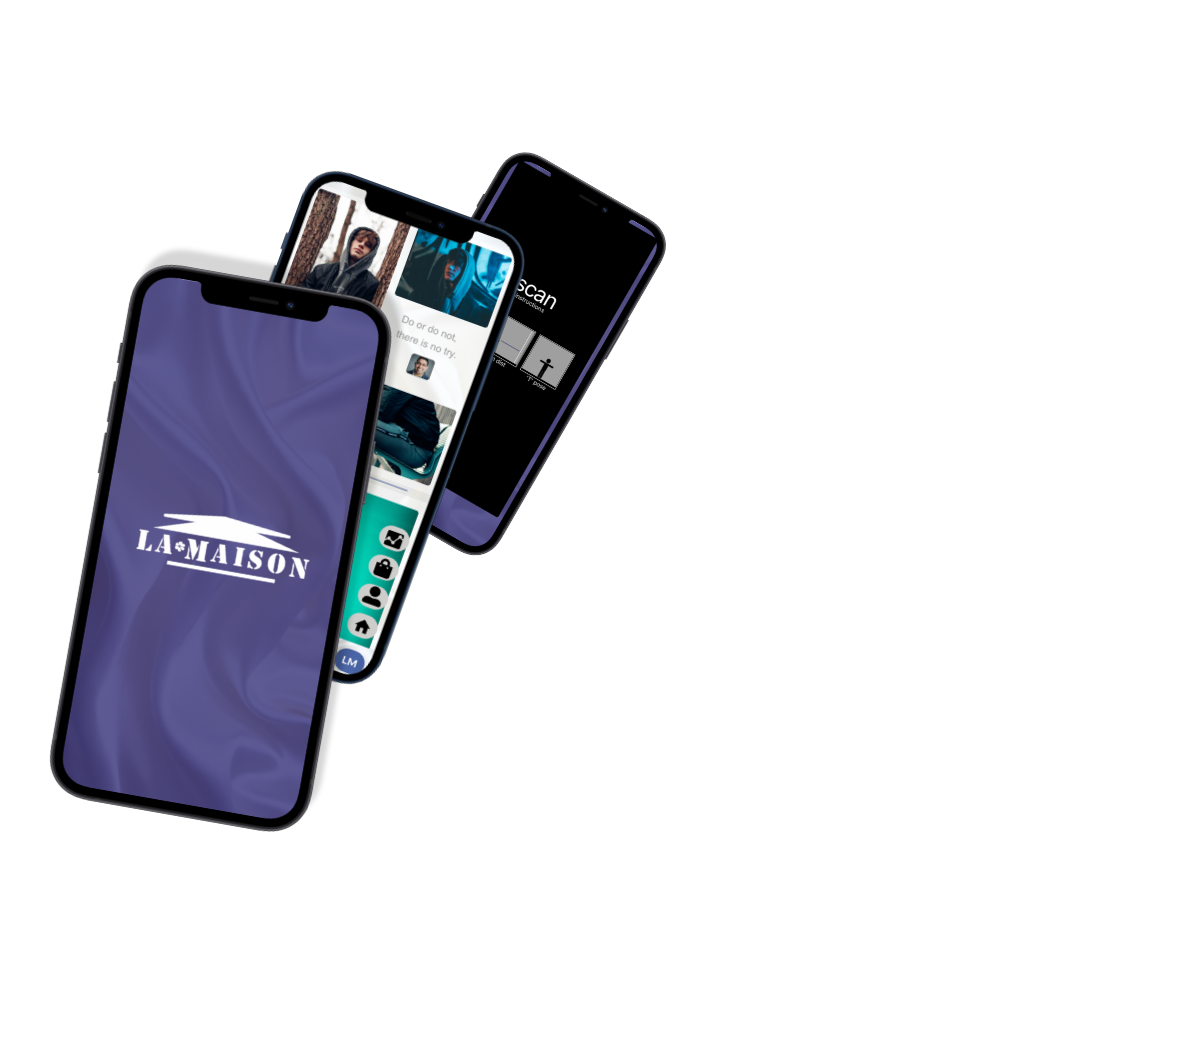
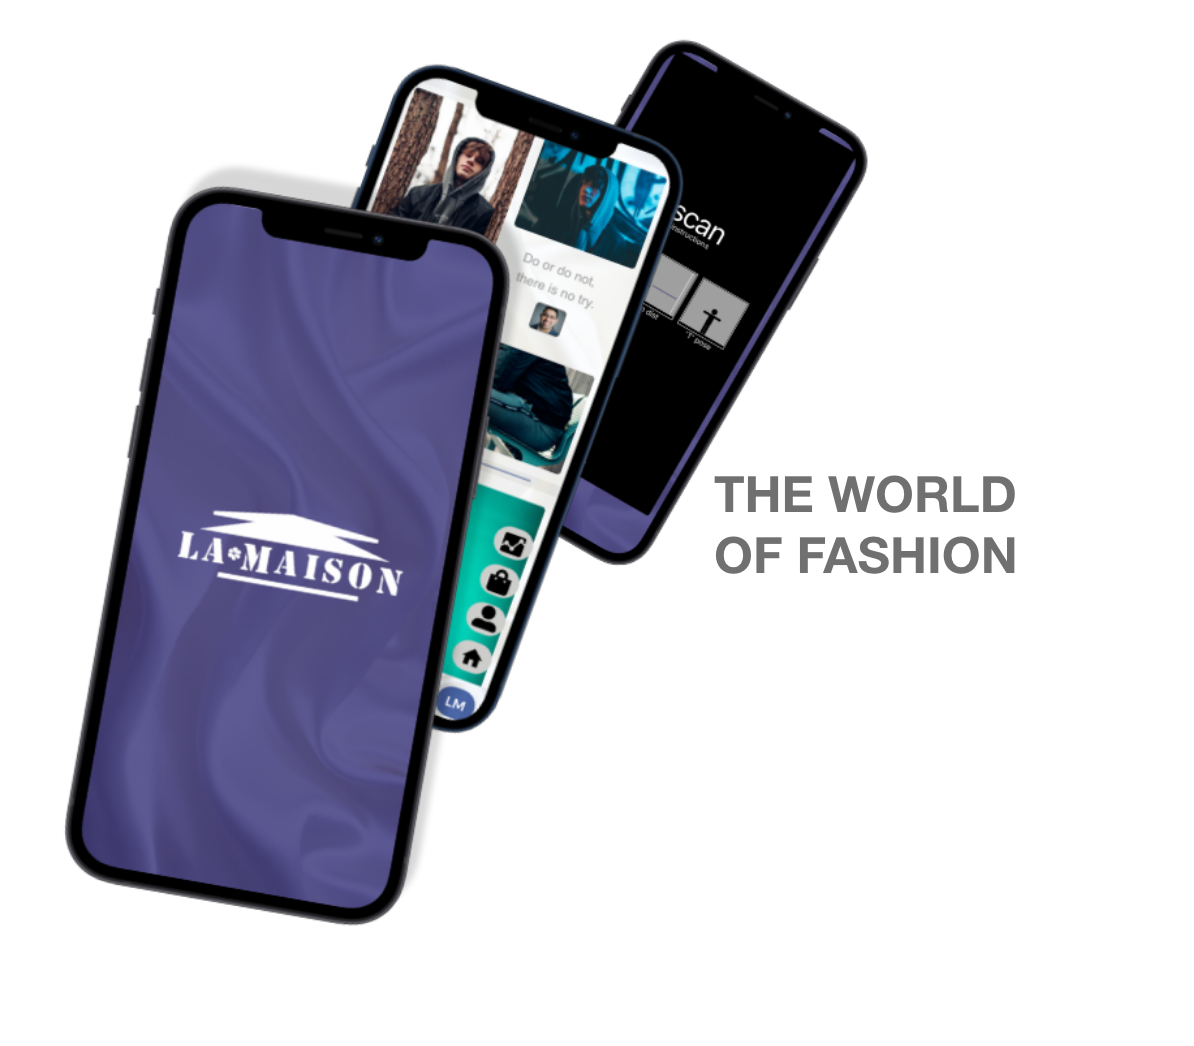
V2.3

Changed region(s): [[0.031, 0.0306, 0.8677, 0.8872]]

diff --git a/index.html b/index.html
@@ -81,16 +81,22 @@
           <div class="col-lg-6 col-md-6 col-sm-12">
             <div class="banner-text">
               <div class="banner-heading">
-                THE WORLD OF FASHION AT YOUR FINGERTIPS.
+                THE WORLD OF FASHION
               </div>
                 <div class="banner-heading">
-                Welcome to LA*MAISON 
-              </div>
-            
+                AT YOUR FINGERTIPS
+                </div>
             </div>
           </div>
           <div class="col-lg-6 col-md-6 col-sm-12">
-                <img src="images/i-1.png" >
+            <div class="row  banner-text2">
+              <div class="col-lg-6 col-md-6 col-sm-6 ">
+                <img src="images/MENU.png" >
+              </div>
+              <div class="col-lg-6 col-md-6 col-sm-6">
+                <img src="images/i-3.png" >
+              </div>
+            </div>
           </div>
         </div>
     </div>
@@ -106,12 +112,12 @@
       <h5 class="h1-responsive font-weight-bold wow fadeInLeft text-center" data-wow-delay="0.3s">The World of fashion at your Finger Tips</h5>
             <hr class="hr-light wow fadeInLeft" data-wow-delay="0.3s">
             <h1 class="h1-responsive font-weight-bold wow fadeInLeft text-center" data-wow-delay="0.3s">OUR WHY</h1>
-        <p class="pt-1">The street is the catwalk. The supermarket aisles. The shopping centre escalator. The club dancefloor, que, and exit. The carpark. The moment you wish to express your deepest truth is the catwalk. The life you truly live is the catwalk. The whole world is a stage. </p>
+        <p class="pt-1">The street is the catwalk. The supermarket isles. The shopping centre escalator. The club dancefloor, que, and exit. The carpark. The moment you wish to express your deepest truth is the catwalk. The life you truly live is the catwalk. The whole world is a stage. </p>
         <p class="pt-2 mb-0 pb-0">We've been to so many great countries, been shown diverse backgrounds, seen the breadth of the world and its culture... and that's impacted the way we dress.</p>
-        <p class="pt-0 mt-1 mb-0 pb-0">We thought that if people can't go and see it all for themselves, maybe we can bring it to them.</p>
+        <p class="pt-0 mt-1 mb-0 pb-0">We thought that if people can not go and see it all for themselves, maybe we can bring it to them.</p>
         <p class="pt-0 mt-1 mb-0 pb-0">
          We want to give everyone the ability to build their own style; something that fits their own personal values and ideals, a true reflection of themselves.</p>
-        <p class="pt-0 mt-1 mb-0 pb-0">Help them to build up a style they can call their own rather than squeezing themselves into the uniform of the time. Encourage people to have their own identity, think their own thoughts, have their own opinions, trust their own consciousness.</p>
+        <p class="pt-0 mt-1 mb-0 pb-0">Help them to build up a style they can call their own rather than squeezing themselves into the uniform of the time. Encourage people to have their own identity, think their own thoughts, have their own opinions,trust their own consciousness.</p>
       </div>
     </div>
   </section>
@@ -137,12 +143,12 @@
               <div class="white-text">
                 <h5 class="h1-responsive font-weight-bold wow fadeInLeft " >Learn All About the Advantages that Our App Has to Offer</h5>
                 <hr class="hr-light wow fadeInLeft" data-wow-delay="0.3s">
-                <p class="custom-para-1">We support young businesses, and connect them to communities.</p>
+                <p class="custom-para-1">We are the home to the newest brands in London for you to purchase straight out of the app.</p>
                 
-                <p class="custom-para-1">Offer users insight and analytics to enhance their fashion lifestyle.</p>
+                <p class="custom-para-1">Not only that, but a place to create a virtual wardrobe that gives you access to it anywhere on the planet.</p>
                 
-                <p class="custom-para-1">Reduce returns, stop waste and save the world with advanced measurement tools.</p>
-                <h5 class="h1-responsive font-weight-bold " ></h5>
+                <p class="custom-para-1">Finally, a online measuring tool so you can try on your next purchase before it even arrives.</p>
+                <h5 class="h1-responsive font-weight-bold " >Accessible from All Locations in the United Kingdom </h5>
                 <hr class="hr-light wow fadeInLeft" data-wow-delay="0.3s">
                 <p class="custom-para-1">We aim to supply you with the freshest independent brands we can find. </p>
               </div>
@@ -207,7 +213,7 @@
       <p class="">It began with an idea to improve the way independent brands do business and that sprouted into LA Maison. Just two guys and a couple computer screens brought this to you. Late nights & difficult choices all for you. I hope you enjoy our sacrifice. </p>
     <h5 class="font-weight-bold">Get In Touch</h5>
       <p class="py-2">We want to hear from you!</p>
-      <p class="">Tel: {07972303813} | Email : Leslie@conexion.ltd, Imran@conexion.ltd or Lamaison2113@gmail.com {London, UK}</p>
+      <p class="">Tel: { Insert Number } | Email : leslie@conexion.ltd, Imran@conexion.ltd or Lamaison2113@gmail.com { Insert Address }</p>
     </div>
   </div>
   </section>
@@ -226,15 +232,15 @@
                 <div class="col-xs-12 col-sm-4 col-md-4">
                     <h5>Contact us</h5>
                     <ul class="list-unstyled quick-links">
-                        <li><a href="javascript:void();"><i class="fa fa-angle-double-right"></i>Email: imran@conexion.ltd</a></li>
-                        <li><a href="javascript:void();"><i class="fa fa-angle-double-right"></i>Cell: 07972303813</a></li>
+                        <li><a href="javascript:void();"><i class="fa fa-angle-double-right"></i>Email: email@gmail.com</a></li>
+                        <li><a href="javascript:void();"><i class="fa fa-angle-double-right"></i>Cell: 12345656544</a></li>
                         
                     </ul>
                 </div>
                 <div class="col-xs-12 col-sm-4 col-md-4">
                     <h5>Address</h5>
                     <ul class="list-unstyled ">
-                        <li><a>London, UK</a></li>
+                        <li><a>500 Terry Francois Street San Francisco, CA 94158</a></li>
                       
                     </ul>
                 </div>
@@ -244,7 +250,7 @@
             <div class="row pt-3">
                 <div class="col-xs-12 col-sm-12 col-md-12  mt-sm-2 text-center text-white">
                     
-                    <p class="text-white">© 2021 by Conéxion Solutions Limited</p>
+                    <p class="text-white">© 2021 by Conéxion Limited</p>
                 </div>
                
             </div>  

diff --git a/css/style.css b/css/style.css
@@ -134,7 +134,7 @@ nav{-webkit-transition: padding-top .3s,padding-bottom .3s;
     height: 20px;
     background: rgba(255, 255, 255, 0.2);
     animation: animate 25s linear infinite;
-    bottom: -150px;
+    bottom: -350px;
     
 }
 
@@ -526,7 +526,7 @@ p{
     font-size: 16px;
 }
 .container{
-  max-width: 760px;
+  max-width: 500px;
 }
 }
 
@@ -550,7 +550,7 @@ p{
 .banner-heading{
    font-size: 35px;
    line-height: 40px;
-   margin-bottom: 40px;
+   margin-bottom: 10px;
 }
 .btn-banner{
    padding:10px 20px;
@@ -602,7 +602,12 @@ p{
 .banner-text{
    padding:150px 0 150px 0;
    }
-  .container{
-    max-width: 900px;
-  } 
+.container{
+    max-width: 40%;
+} 
+}
+.image-txt-container {
+  display: flex;
+  align-items: center;
+  flex-direction: row;
 }
